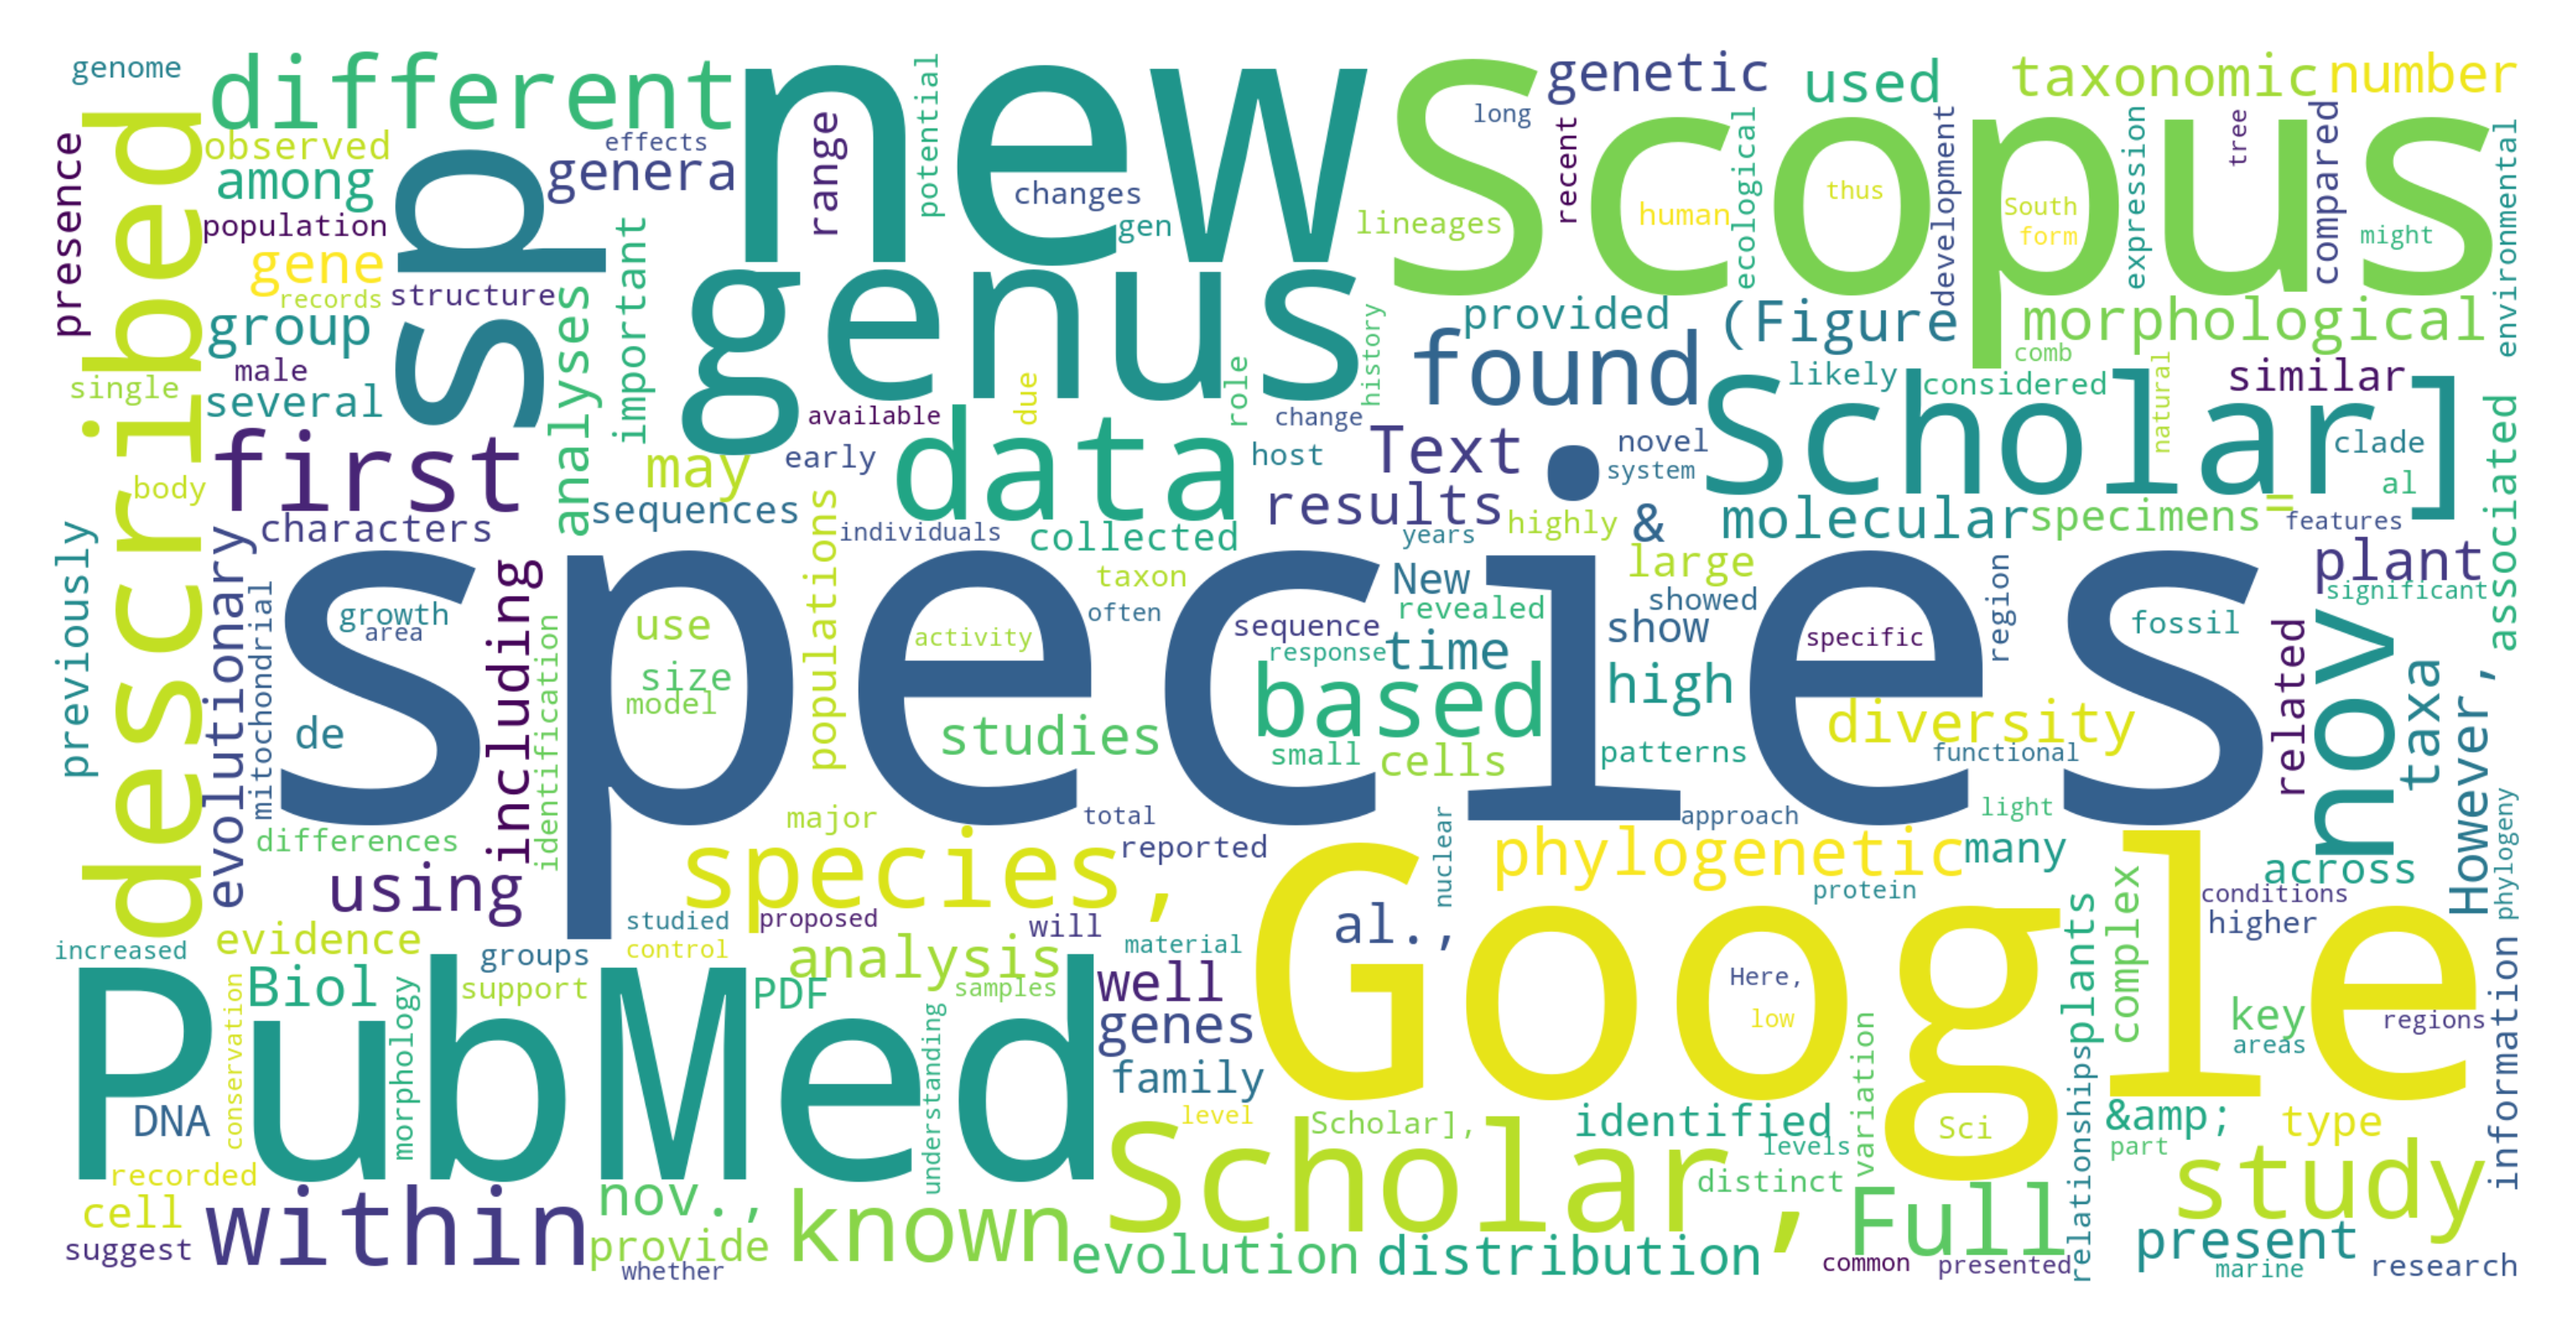
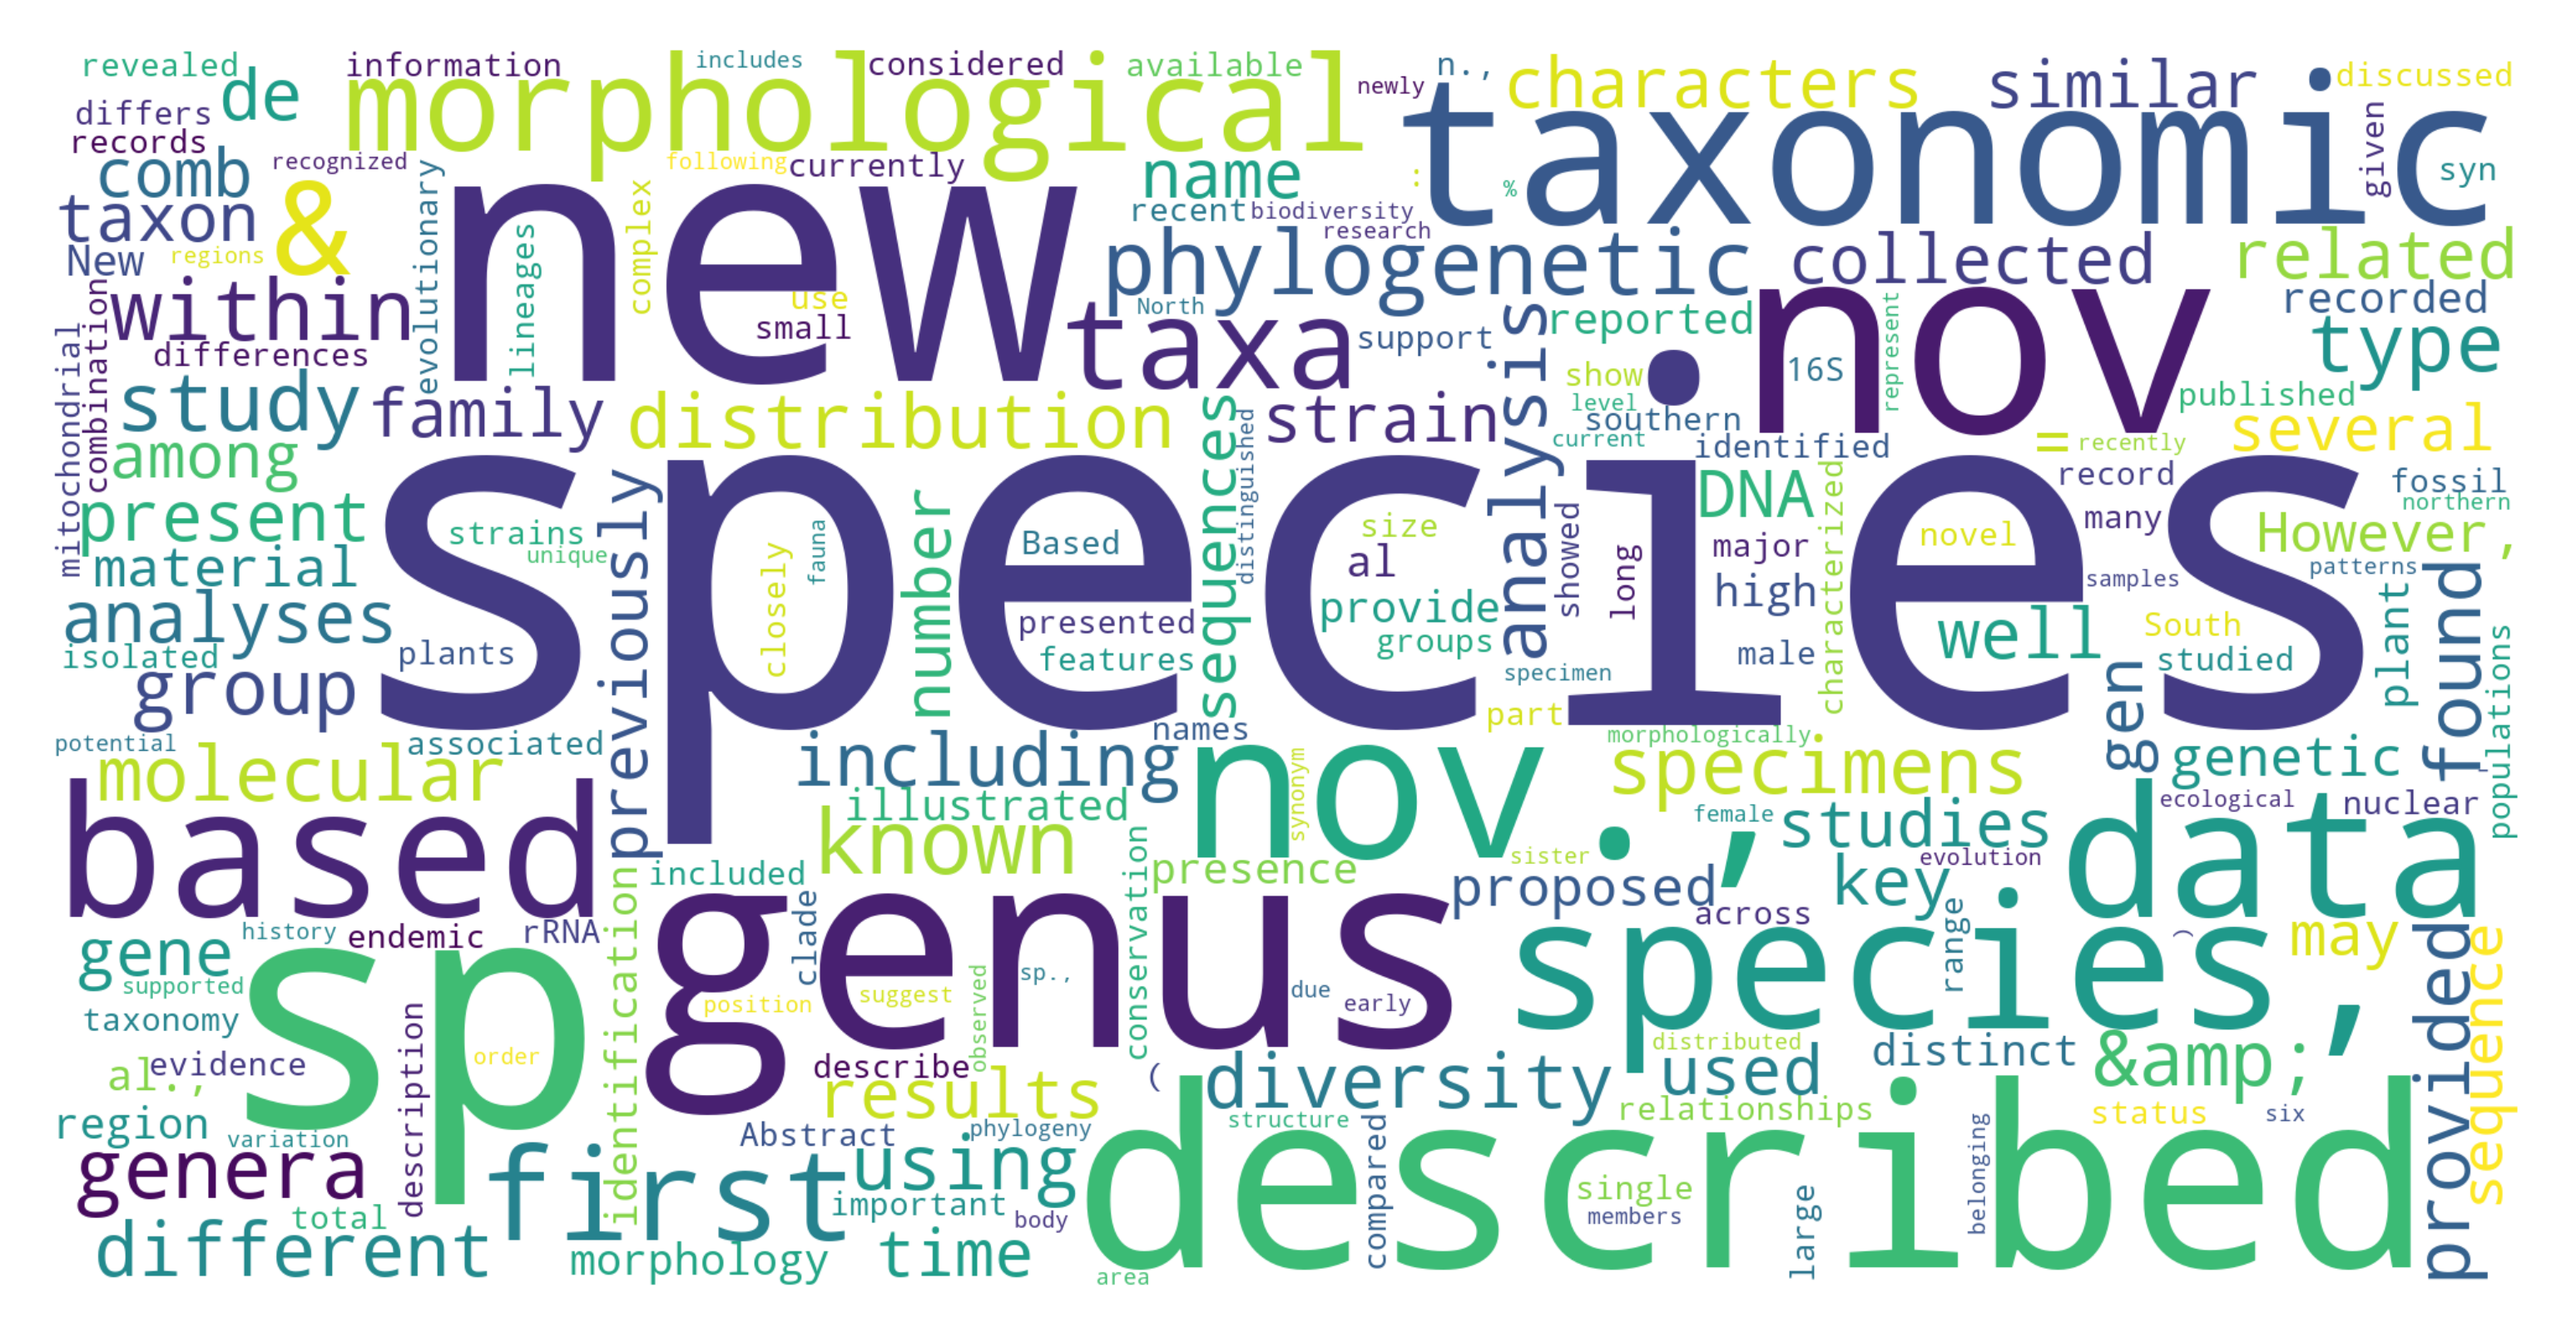
Correcting input file for wordcloud

diff --git a/src/visualization/wordclouds.py b/src/visualization/wordclouds.py
@@ -33,7 +33,7 @@ def wordcloud_abstracts(df, name):
     plt.axis("off")
     # save wordcloud for this concept
     plt.savefig("../../reports/figures/wordcloud_"+name+".png", format="png", dpi=600, bbox_inches='tight')
-    
+    plt.show()
 
-articles = pd.read_pickle("../../data/processed/european_taxonomic_articles_with_subjects.pkl")
+articles = pd.read_pickle("../../data/processed/taxonomic_articles_with_subjects.pkl")
 wordcloud_abstracts(articles, "european_taxonomic_articles")
